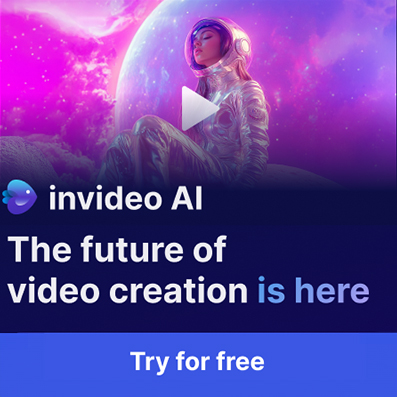
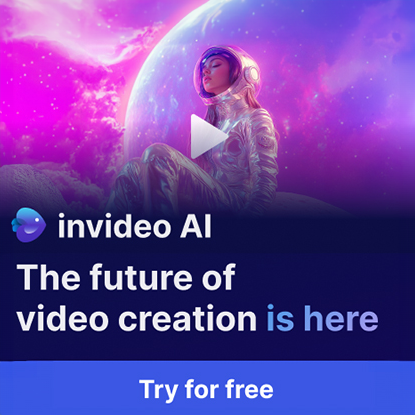
changed images for footer and arranged bots

diff --git a/src/data/bots.js b/src/data/bots.js
@@ -32,6 +32,7 @@ import placeholderImg32 from '../assets/bot-placeholder32.webp';
 import placeholderImg33 from '../assets/bot-placeholder33.webp';
 import placeholderImg34 from '../assets/bot-placeholder34.webp';
 import InVideoFreeTrialImg from '../assets/InVideoFreeTrial.webp';
+import InVideoFreeTrial2Img from '../assets/InVideoFreeTrial2.webp';
 import InVideoAvatar from '../assets/InVideoAvatar.webp';
 import adcreativeaiImg from '../assets/adcreativeai.webp';
 import adcreativeaiImg2 from '../assets/adcreativeai2.webp';
@@ -90,12 +91,12 @@ export const rawBots = [
     categories: ["Health & Wellness", "Specialized Knowledge"]
   },
   {
-    title: "Personal Assistant",
-    desc: "Organize and optimize your daily life with this AI-powered personal assistant.",
-    image: placeholderImg11,
+    title: "Paintr",
+    desc: "Identify any exact color of paint in seconds!", 
+    image: placeholderImg31,
     free: true,
-    openaiLink: "https://chatgpt.com/g/g-hWAjkwSzj-personal-assistant",
-    categories: ["Productivity"]
+    openaiLink: "https://chatgpt.com/g/g-6833f9d3f1f88191ba83263ab7a99ea7-paintr",
+    categories: ["Specialized Knowledge"] 
   },
   {
     title: "Health & Medicine",
@@ -114,13 +115,14 @@ export const rawBots = [
     categories: ["Productivity"]
   },
   {
-    title: "Paintr",
-    desc: "Identify any exact color of paint in seconds!", 
-    image: placeholderImg31,
+    title: "Personal Assistant",
+    desc: "Organize and optimize your daily life with this AI-powered personal assistant.",
+    image: placeholderImg11,
     free: true,
-    openaiLink: "https://chatgpt.com/g/g-6833f9d3f1f88191ba83263ab7a99ea7-paintr",
-    categories: ["Specialized Knowledge"] 
+    openaiLink: "https://chatgpt.com/g/g-hWAjkwSzj-personal-assistant",
+    categories: ["Productivity"]
   },
+  
   {
     title: "Cooking, Diet, Recipes, Nutrition",
     desc: "Personalized recipes, diet plans, nutrition tips, and food cooking advice in one spot.",
@@ -216,6 +218,7 @@ export const rawBots = [
     title: "InVideo AI",
     desc: "The Future of Video Creation Is Here!",
     image: InVideoFreeTrialImg,
+    rotatingImages: [InVideoFreeTrialImg, InVideoFreeTrial2Img],
     free: false,
     openaiLink: "https://invideo.sjv.io/c/6368097/2210623/12258",
     isAffiliate: true,

diff --git a/scripts/generate-articles.js b/scripts/generate-articles.js
@@ -1141,7 +1141,7 @@ function generateArticleHTML(article) {
     <!-- Header -->
     <div class="header">
       <a href="https://betteraibots.com" style="display: flex; justify-content: center; width: 100%;">
-        <img src="https://betteraibots.com/betteraiglowlogo.png" class="header-logo" alt="BetterAiBots Logo" style="cursor: pointer" />
+        <img src="https://betteraibots.com/betteraibotsglowlogo.webp" class="header-logo" alt="BetterAiBots Logo" style="cursor: pointer" />
       </a>
     </div>
     
@@ -1241,7 +1241,7 @@ function generateArticleHTML(article) {
     <!-- Footer -->
     <footer>
         <div class="footer-content">
-            <img src="https://betteraibots.com/betteraiglowlogo.png" alt="BetterAiBots Logo" class="footer-logo" />
+            <img src="https://betteraibots.com/betteraibotsglowlogo.webp" alt="BetterAiBots Logo" class="footer-logo" />
             <span class="footer-text">Powered by <a href="https://dubbydevs.com" style="color: #36ff95; text-decoration: none;">DubbyDevs</a></span>
         </div>
         <div class="footer-copyright">

diff --git a/public/news/ai-cybersecurity-autonomous-threat-defense-2025.html b/public/news/ai-cybersecurity-autonomous-threat-defense-2025.html
@@ -450,7 +450,7 @@
     <!-- Header -->
     <div class="header">
       <a href="https://betteraibots.com" style="display: flex; justify-content: center; width: 100%;">
-        <img src="https://betteraibots.com/betteraiglowlogo.png" class="header-logo" alt="BetterAiBots Logo" style="cursor: pointer" />
+        <img src="https://betteraibots.com/betteraibotsglowlogo.webp" class="header-logo" alt="BetterAiBots Logo" style="cursor: pointer" />
       </a>
     </div>
     
@@ -605,7 +605,7 @@
     <!-- Footer -->
     <footer>
         <div class="footer-content">
-            <img src="https://betteraibots.com/betteraiglowlogo.png" alt="BetterAiBots Logo" class="footer-logo" />
+            <img src="https://betteraibots.com/betteraibotsglowlogo.webp" alt="BetterAiBots Logo" class="footer-logo" />
             <span class="footer-text">Powered by <a href="https://dubbydevs.com" style="color: #36ff95; text-decoration: none;">DubbyDevs</a></span>
         </div>
         <div class="footer-copyright">

diff --git a/public/news/ai-reshaping-employment-tech-layoffs-new-jobs-2025.html b/public/news/ai-reshaping-employment-tech-layoffs-new-jobs-2025.html
@@ -450,7 +450,7 @@
     <!-- Header -->
     <div class="header">
       <a href="https://betteraibots.com" style="display: flex; justify-content: center; width: 100%;">
-        <img src="https://betteraibots.com/betteraiglowlogo.png" class="header-logo" alt="BetterAiBots Logo" style="cursor: pointer" />
+        <img src="https://betteraibots.com/betteraibotsglowlogo.webp" class="header-logo" alt="BetterAiBots Logo" style="cursor: pointer" />
       </a>
     </div>
     
@@ -581,7 +581,7 @@
     <!-- Footer -->
     <footer>
         <div class="footer-content">
-            <img src="https://betteraibots.com/betteraiglowlogo.png" alt="BetterAiBots Logo" class="footer-logo" />
+            <img src="https://betteraibots.com/betteraibotsglowlogo.webp" alt="BetterAiBots Logo" class="footer-logo" />
             <span class="footer-text">Powered by <a href="https://dubbydevs.com" style="color: #36ff95; text-decoration: none;">DubbyDevs</a></span>
         </div>
         <div class="footer-copyright">

diff --git a/public/news/anthropic-claude-35-sonnet-reasoning.html b/public/news/anthropic-claude-35-sonnet-reasoning.html
@@ -450,7 +450,7 @@
     <!-- Header -->
     <div class="header">
       <a href="https://betteraibots.com" style="display: flex; justify-content: center; width: 100%;">
-        <img src="https://betteraibots.com/betteraiglowlogo.png" class="header-logo" alt="BetterAiBots Logo" style="cursor: pointer" />
+        <img src="https://betteraibots.com/betteraibotsglowlogo.webp" class="header-logo" alt="BetterAiBots Logo" style="cursor: pointer" />
       </a>
     </div>
     
@@ -634,7 +634,7 @@
     <!-- Footer -->
     <footer>
         <div class="footer-content">
-            <img src="https://betteraibots.com/betteraiglowlogo.png" alt="BetterAiBots Logo" class="footer-logo" />
+            <img src="https://betteraibots.com/betteraibotsglowlogo.webp" alt="BetterAiBots Logo" class="footer-logo" />
             <span class="footer-text">Powered by <a href="https://dubbydevs.com" style="color: #36ff95; text-decoration: none;">DubbyDevs</a></span>
         </div>
         <div class="footer-copyright">

diff --git a/public/news/anthropic-revokes-openai-claude-access-rivalry.html b/public/news/anthropic-revokes-openai-claude-access-rivalry.html
@@ -450,7 +450,7 @@
     <!-- Header -->
     <div class="header">
       <a href="https://betteraibots.com" style="display: flex; justify-content: center; width: 100%;">
-        <img src="https://betteraibots.com/betteraiglowlogo.png" class="header-logo" alt="BetterAiBots Logo" style="cursor: pointer" />
+        <img src="https://betteraibots.com/betteraibotsglowlogo.webp" class="header-logo" alt="BetterAiBots Logo" style="cursor: pointer" />
       </a>
     </div>
     
@@ -591,7 +591,7 @@
     <!-- Footer -->
     <footer>
         <div class="footer-content">
-            <img src="https://betteraibots.com/betteraiglowlogo.png" alt="BetterAiBots Logo" class="footer-logo" />
+            <img src="https://betteraibots.com/betteraibotsglowlogo.webp" alt="BetterAiBots Logo" class="footer-logo" />
             <span class="footer-text">Powered by <a href="https://dubbydevs.com" style="color: #36ff95; text-decoration: none;">DubbyDevs</a></span>
         </div>
         <div class="footer-copyright">

diff --git a/public/news/china-global-ai-cooperation-organization.html b/public/news/china-global-ai-cooperation-organization.html
@@ -450,7 +450,7 @@
     <!-- Header -->
     <div class="header">
       <a href="https://betteraibots.com" style="display: flex; justify-content: center; width: 100%;">
-        <img src="https://betteraibots.com/betteraiglowlogo.png" class="header-logo" alt="BetterAiBots Logo" style="cursor: pointer" />
+        <img src="https://betteraibots.com/betteraibotsglowlogo.webp" class="header-logo" alt="BetterAiBots Logo" style="cursor: pointer" />
       </a>
     </div>
     
@@ -570,7 +570,7 @@
     <!-- Footer -->
     <footer>
         <div class="footer-content">
-            <img src="https://betteraibots.com/betteraiglowlogo.png" alt="BetterAiBots Logo" class="footer-logo" />
+            <img src="https://betteraibots.com/betteraibotsglowlogo.webp" alt="BetterAiBots Logo" class="footer-logo" />
             <span class="footer-text">Powered by <a href="https://dubbydevs.com" style="color: #36ff95; text-decoration: none;">DubbyDevs</a></span>
         </div>
         <div class="footer-copyright">

diff --git a/public/news/generative-ai-apps-1-7-billion-downloads-2025.html b/public/news/generative-ai-apps-1-7-billion-downloads-2025.html
@@ -450,7 +450,7 @@
     <!-- Header -->
     <div class="header">
       <a href="https://betteraibots.com" style="display: flex; justify-content: center; width: 100%;">
-        <img src="https://betteraibots.com/betteraiglowlogo.png" class="header-logo" alt="BetterAiBots Logo" style="cursor: pointer" />
+        <img src="https://betteraibots.com/betteraibotsglowlogo.webp" class="header-logo" alt="BetterAiBots Logo" style="cursor: pointer" />
       </a>
     </div>
     
@@ -596,7 +596,7 @@
     <!-- Footer -->
     <footer>
         <div class="footer-content">
-            <img src="https://betteraibots.com/betteraiglowlogo.png" alt="BetterAiBots Logo" class="footer-logo" />
+            <img src="https://betteraibots.com/betteraibotsglowlogo.webp" alt="BetterAiBots Logo" class="footer-logo" />
             <span class="footer-text">Powered by <a href="https://dubbydevs.com" style="color: #36ff95; text-decoration: none;">DubbyDevs</a></span>
         </div>
         <div class="footer-copyright">

diff --git a/public/news/google-gemini-pro-100-million-users.html b/public/news/google-gemini-pro-100-million-users.html
@@ -450,7 +450,7 @@
     <!-- Header -->
     <div class="header">
       <a href="https://betteraibots.com" style="display: flex; justify-content: center; width: 100%;">
-        <img src="https://betteraibots.com/betteraiglowlogo.png" class="header-logo" alt="BetterAiBots Logo" style="cursor: pointer" />
+        <img src="https://betteraibots.com/betteraibotsglowlogo.webp" class="header-logo" alt="BetterAiBots Logo" style="cursor: pointer" />
       </a>
     </div>
     
@@ -558,7 +558,7 @@
     <!-- Footer -->
     <footer>
         <div class="footer-content">
-            <img src="https://betteraibots.com/betteraiglowlogo.png" alt="BetterAiBots Logo" class="footer-logo" />
+            <img src="https://betteraibots.com/betteraibotsglowlogo.webp" alt="BetterAiBots Logo" class="footer-logo" />
             <span class="footer-text">Powered by <a href="https://dubbydevs.com" style="color: #36ff95; text-decoration: none;">DubbyDevs</a></span>
         </div>
         <div class="footer-copyright">

diff --git a/public/news/landmark-legal-victory-ai-copyright-training.html b/public/news/landmark-legal-victory-ai-copyright-training.html
@@ -450,7 +450,7 @@
     <!-- Header -->
     <div class="header">
       <a href="https://betteraibots.com" style="display: flex; justify-content: center; width: 100%;">
-        <img src="https://betteraibots.com/betteraiglowlogo.png" class="header-logo" alt="BetterAiBots Logo" style="cursor: pointer" />
+        <img src="https://betteraibots.com/betteraibotsglowlogo.webp" class="header-logo" alt="BetterAiBots Logo" style="cursor: pointer" />
       </a>
     </div>
     
@@ -641,7 +641,7 @@
     <!-- Footer -->
     <footer>
         <div class="footer-content">
-            <img src="https://betteraibots.com/betteraiglowlogo.png" alt="BetterAiBots Logo" class="footer-logo" />
+            <img src="https://betteraibots.com/betteraibotsglowlogo.webp" alt="BetterAiBots Logo" class="footer-logo" />
             <span class="footer-text">Powered by <a href="https://dubbydevs.com" style="color: #36ff95; text-decoration: none;">DubbyDevs</a></span>
         </div>
         <div class="footer-copyright">

diff --git a/public/news/meta-llama-3-open-source-ai.html b/public/news/meta-llama-3-open-source-ai.html
@@ -450,7 +450,7 @@
     <!-- Header -->
     <div class="header">
       <a href="https://betteraibots.com" style="display: flex; justify-content: center; width: 100%;">
-        <img src="https://betteraibots.com/betteraiglowlogo.png" class="header-logo" alt="BetterAiBots Logo" style="cursor: pointer" />
+        <img src="https://betteraibots.com/betteraibotsglowlogo.webp" class="header-logo" alt="BetterAiBots Logo" style="cursor: pointer" />
       </a>
     </div>
     
@@ -558,7 +558,7 @@
     <!-- Footer -->
     <footer>
         <div class="footer-content">
-            <img src="https://betteraibots.com/betteraiglowlogo.png" alt="BetterAiBots Logo" class="footer-logo" />
+            <img src="https://betteraibots.com/betteraibotsglowlogo.webp" alt="BetterAiBots Logo" class="footer-logo" />
             <span class="footer-text">Powered by <a href="https://dubbydevs.com" style="color: #36ff95; text-decoration: none;">DubbyDevs</a></span>
         </div>
         <div class="footer-copyright">

diff --git a/public/news/microsoft-copilot-pro-productivity.html b/public/news/microsoft-copilot-pro-productivity.html
@@ -450,7 +450,7 @@
     <!-- Header -->
     <div class="header">
       <a href="https://betteraibots.com" style="display: flex; justify-content: center; width: 100%;">
-        <img src="https://betteraibots.com/betteraiglowlogo.png" class="header-logo" alt="BetterAiBots Logo" style="cursor: pointer" />
+        <img src="https://betteraibots.com/betteraibotsglowlogo.webp" class="header-logo" alt="BetterAiBots Logo" style="cursor: pointer" />
       </a>
     </div>
     
@@ -558,7 +558,7 @@
     <!-- Footer -->
     <footer>
         <div class="footer-content">
-            <img src="https://betteraibots.com/betteraiglowlogo.png" alt="BetterAiBots Logo" class="footer-logo" />
+            <img src="https://betteraibots.com/betteraibotsglowlogo.webp" alt="BetterAiBots Logo" class="footer-logo" />
             <span class="footer-text">Powered by <a href="https://dubbydevs.com" style="color: #36ff95; text-decoration: none;">DubbyDevs</a></span>
         </div>
         <div class="footer-copyright">
